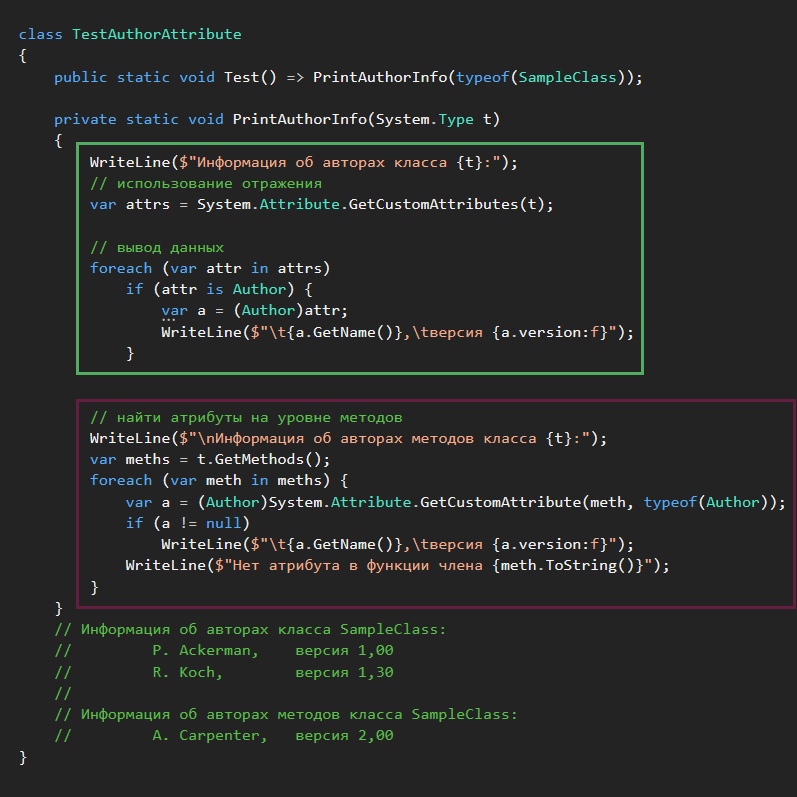
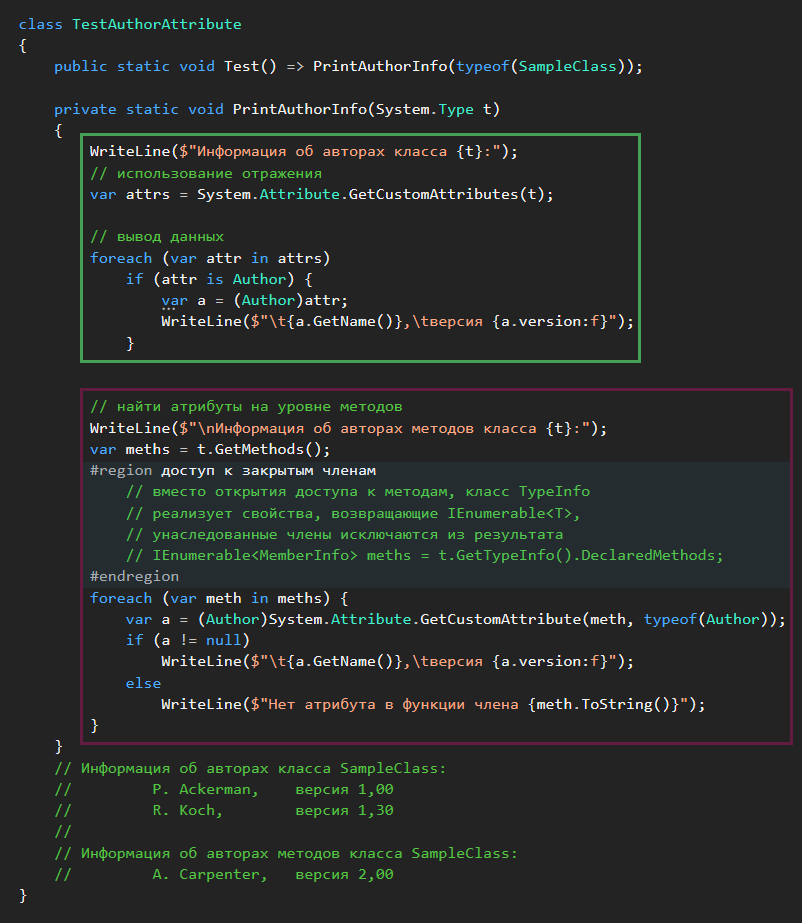
C_Sharp

Changed region(s): [[0.0, 0.0, 1.0, 0.9636]]

diff --git a/Attributes/AccessingAttributes.cs b/Attributes/AccessingAttributes.cs
@@ -1,4 +1,6 @@
-using static System.Console;
+using System.Collections.Generic;
+using System.Reflection;
+using static System.Console;
 
 // многократно используемый настраиваемый атрибут
 [System.AttributeUsage(System.AttributeTargets.Class |
@@ -56,11 +58,18 @@ class TestAuthorAttribute
         // найти атрибуты на уровне методов
         WriteLine($"\nИнформация об авторах методов класса {t}:");
         var meths = t.GetMethods();
+        #region доступ к закрытым членам
+            // вместо открытия доступа к методам, класс TypeInfo
+            // реализует свойства, возвращающие IEnumerable<T>,
+            // унаследованные члены исключаются из результата
+            // IEnumerable<MemberInfo> meths = t.GetTypeInfo().DeclaredMethods; // или DeclaredMembers от контекста
+        #endregion
         foreach (var meth in meths) {
             var a = (Author)System.Attribute.GetCustomAttribute(meth, typeof(Author));
             if (a != null)
                 WriteLine($"\t{a.GetName()},\tверсия {a.version:f}");
-            WriteLine($"Нет атрибута в функции члена {meth.ToString()}");
+            else
+                WriteLine($"Нет атрибута в функции члена {meth.ToString()}");
         }
     }
     // Информация об авторах класса SampleClass:
